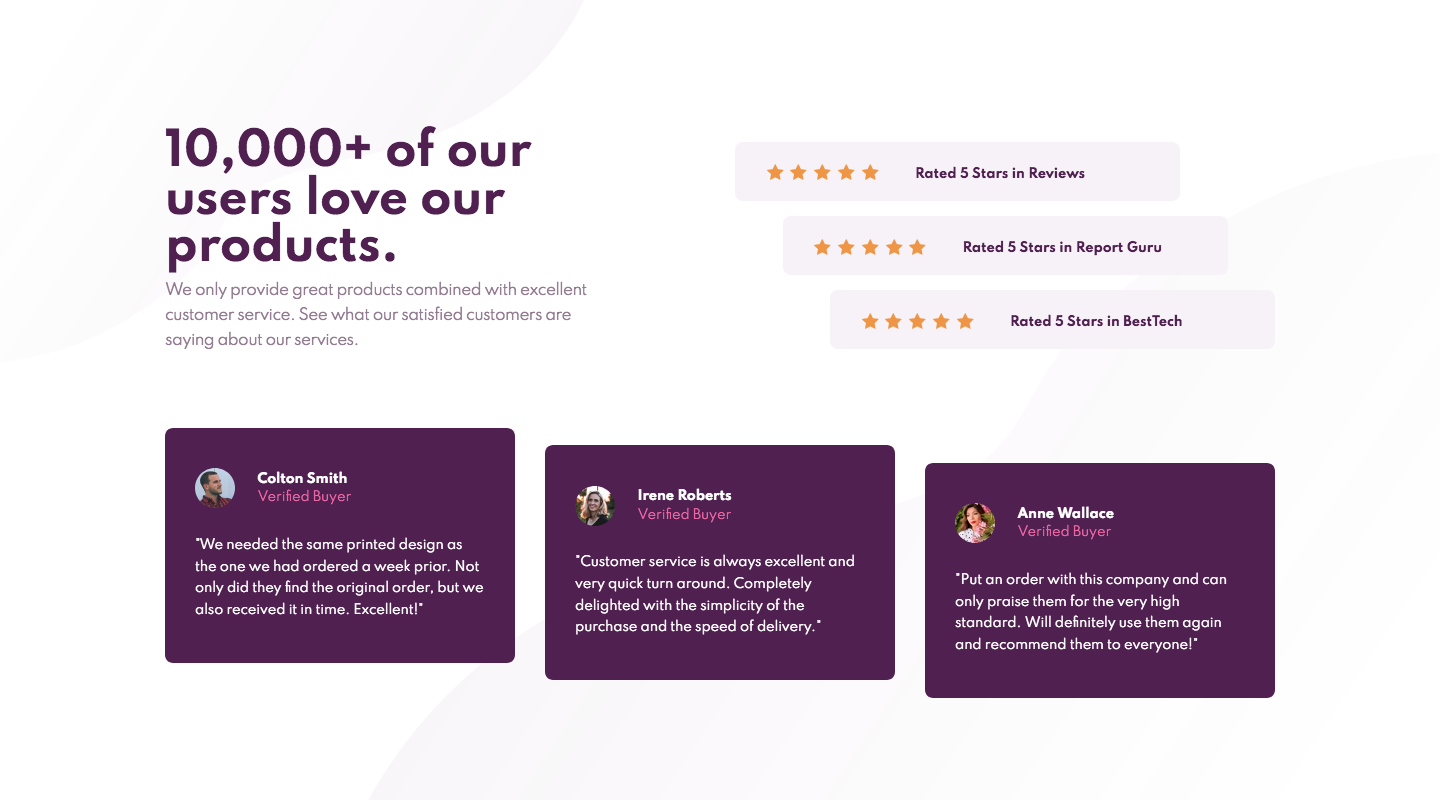
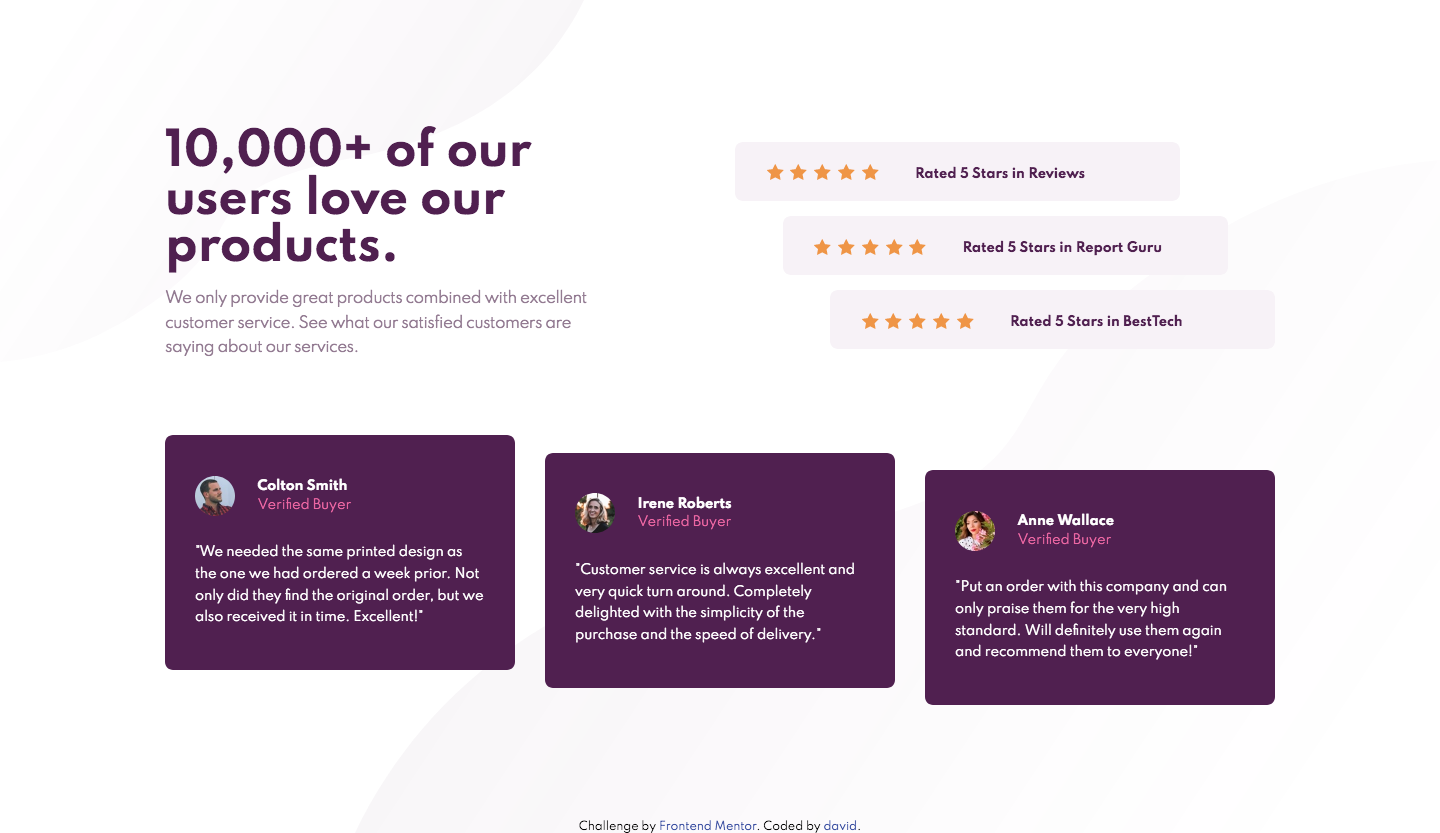
CSS Update

diff --git a/css/style.css b/css/style.css
@@ -150,9 +150,6 @@ h4 {
     font-size: 3em;
     margin-bottom: 0;
   }
-  .hero p {
-    margin-top: .5em;
-  }
   /* RATINGS */
   .hero-ratings {
     flex: 1;
